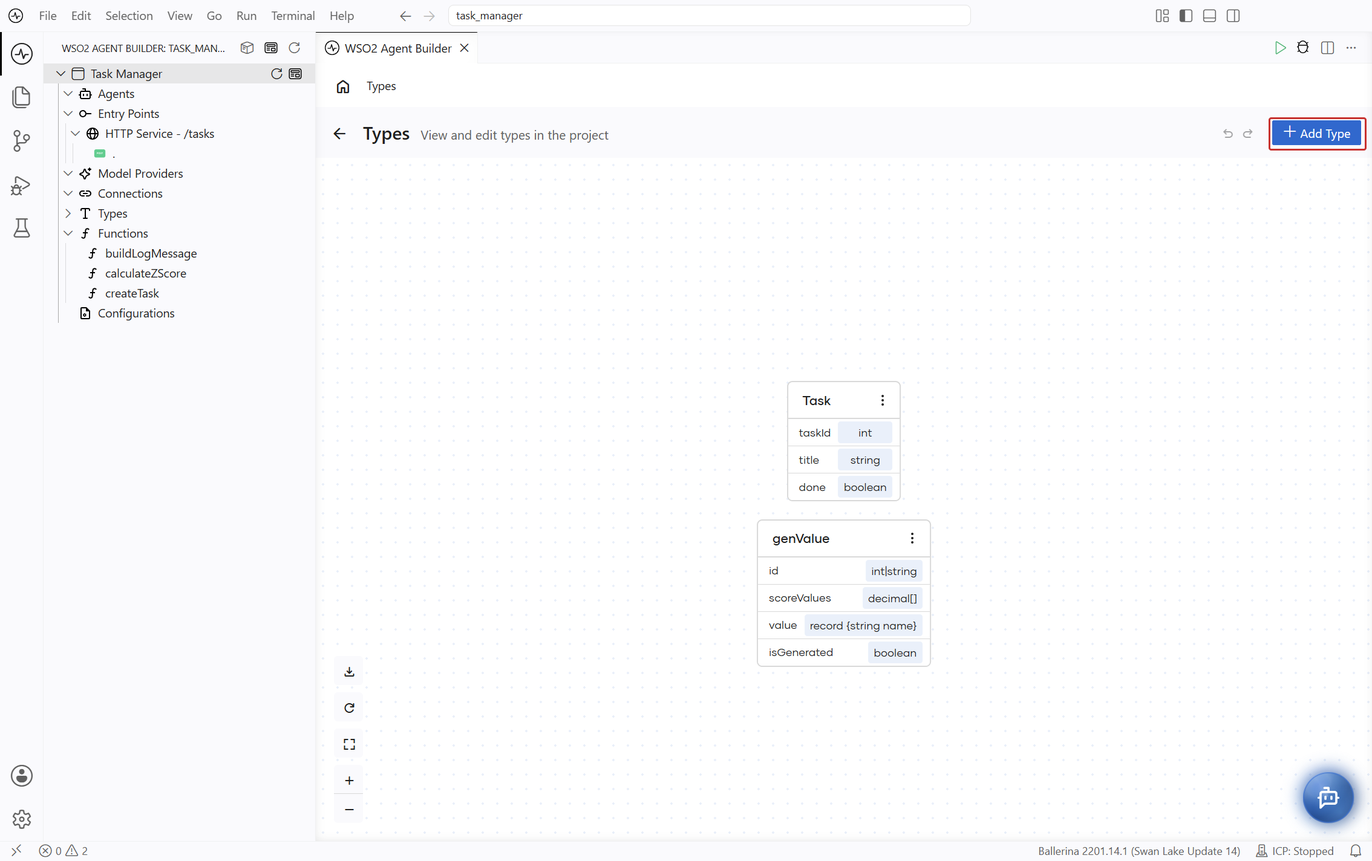
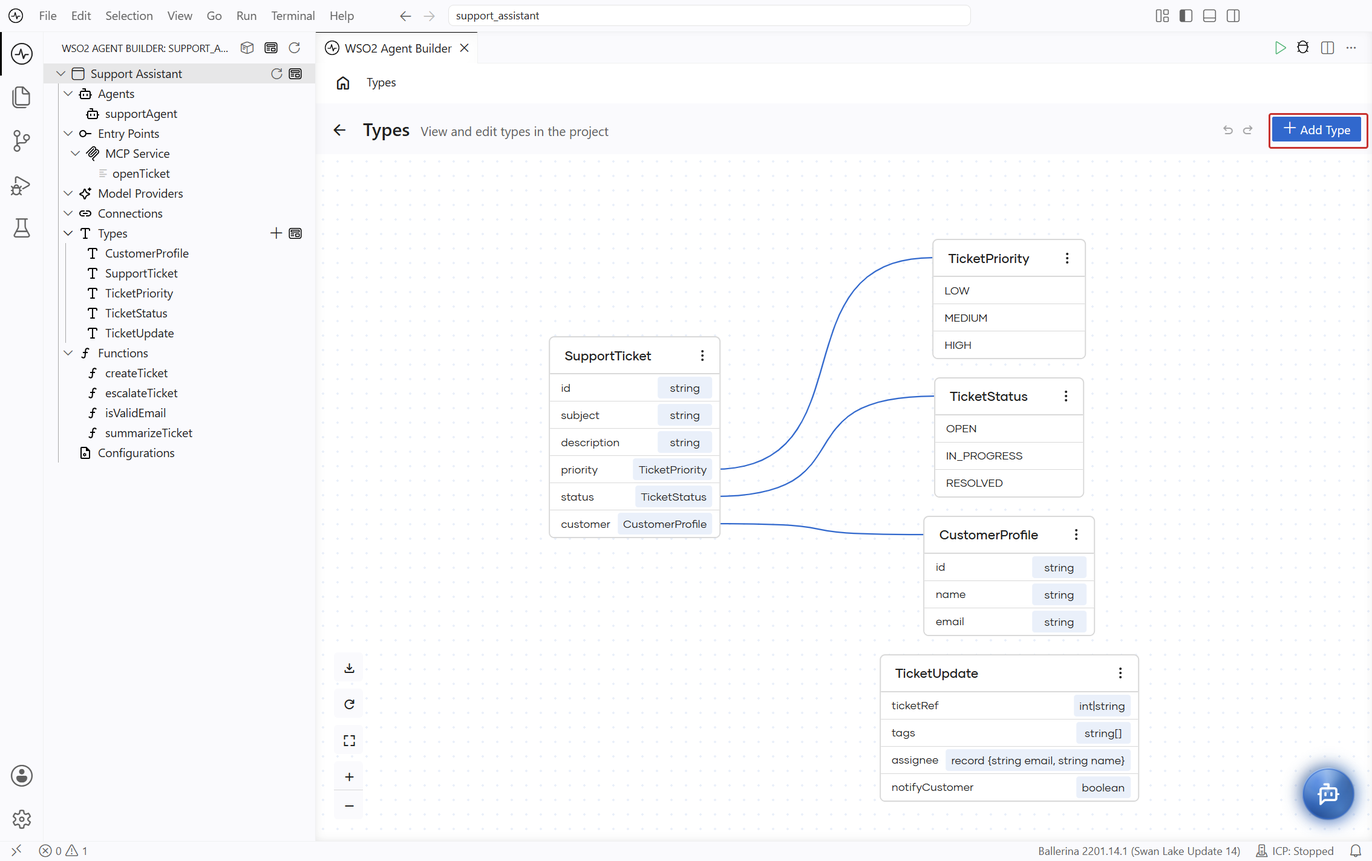
docs(editor): use a customer support example on the panel pages
Show an MCP service on the Configuration Panel page, use ticket types and
tool functions for the Expression Panel and Type Panel examples, and drop
the GraphQL references and GraphQL Canvas links from the Type Panel page.

diff --git a/en/docs/editor/panels/type-panel.md b/en/docs/editor/panels/type-panel.md
@@ -22,7 +22,7 @@ You can open the Type Panel from two places, depending on where you are working.
 - **From the project explorer.** Select **+** next to **Types** to add a new type, or select an existing type name to edit it.
 
     <ThemedImage
-        alt="The project explorer with the Add Type button next to Types outlined and its Add Type tooltip showing."
+        alt="The project explorer with Types expanded to show CustomerProfile, SupportTicket, TicketPriority, TicketStatus, and TicketUpdate, and the Add Type button next to Types outlined with its Add Type tooltip showing."
         sources={{
             light: useBaseUrl('/img/editor/panels/type-panel/01-add-type-project-explorer-v1.0.png'),
             dark: useBaseUrl('/img/editor/panels/type-panel/01-add-type-project-explorer-v1.0.png'),
@@ -32,7 +32,7 @@ You can open the Type Panel from two places, depending on where you are working.
 - **From the Type Canvas.** Select **+ Add Type** in the header to add a new type, or select **Edit** from the three-dot menu on a type card to edit an existing one.
 
     <ThemedImage
-        alt="The Type Canvas showing the Task and genValue type cards, with the Add Type button at the top right outlined."
+        alt="The Type Canvas showing the SupportTicket record linked to the TicketPriority and TicketStatus enums and the CustomerProfile record, and a separate TicketUpdate record, with the Add Type button at the top right outlined."
         sources={{
             light: useBaseUrl('/img/editor/panels/type-panel/02-add-type-diagram-v1.0.png'),
             dark: useBaseUrl('/img/editor/panels/type-panel/02-add-type-diagram-v1.0.png'),
@@ -51,7 +51,7 @@ The Type Panel supports the following kinds of types. Pick the kind from the **K
 | **Enum** | A fixed set of named string members, useful for status codes and choices. |
 | **Union** | A value that can be one of several types, including primitives and other custom types. |
 | **Array** | A list of values of the same type, with an optional fixed size. |
-| **Service Class** | A class that exposes resource methods, used as a return type for GraphQL resolvers and similar service patterns. |
+| **Service Class** | A class that exposes resource methods, for a typed object that carries behavior alongside data. |
 
 Every type form shares the same header fields:
 
@@ -65,7 +65,7 @@ Every type form shares the same header fields:
 A record defines a structured value with named fields. Each field has a name, a type, and an optional flag, and the panel renders one row per field under the **Fields** section.
 
 <ThemedImage
-    alt="The New Type panel on the Create from scratch tab, with Kind set to Record, Name set to Person, a nic field of type int, and Advanced Options expanded to show Allow Additional Fields, Is Readonly Type, and Accessible by Other Integrations."
+    alt="The New Type panel on the Create from scratch tab, with Kind set to Record, Name set to OrderSummary, an orderId field of type string, a total field of type decimal, and Advanced Options expanded to show Allow Additional Fields, Is Readonly Type, and Accessible by Other Integrations."
     sources={{
         light: useBaseUrl('/img/editor/panels/type-panel/03-create-record-v1.0.png'),
         dark: useBaseUrl('/img/editor/panels/type-panel/03-create-record-v1.0.png'),
@@ -75,7 +75,7 @@ A record defines a structured value with named fields. Each field has a name, a 
 Select **+** next to **Fields** to add a new field. Each field row exposes the following options.
 
 <ThemedImage
-    alt="The nic field row of the Person record expanded to show Default Value, Description, and Readonly, with the Create Inline Record, Set as an Optional Field, and Delete Field icons outlined."
+    alt="The total field row of the OrderSummary record expanded to show Default Value, Description, and Readonly, with the Create Inline Record, Set as an Optional Field, and Delete Field icons outlined."
     sources={{
         light: useBaseUrl('/img/editor/panels/type-panel/08-field-options-in-record-v1.0.png'),
         dark: useBaseUrl('/img/editor/panels/type-panel/08-field-options-in-record-v1.0.png'),
@@ -97,21 +97,21 @@ To make a field reference another type in the project, set the field type to the
 An enum defines a fixed set of named members. Use it for closed sets of values such as status codes, channels, or roles.
 
 <ThemedImage
-    alt="The New Type panel with Kind set to Enum, Name set to Status, and the members DRAFT, SUBMITTED, APPROVED, and REJECTED."
+    alt="The New Type panel with Kind set to Enum, Name set to TicketChannel, and the members EMAIL, CHAT, and PHONE."
     sources={{
         light: useBaseUrl('/img/editor/panels/type-panel/04-create-enum-v1.0.png'),
         dark: useBaseUrl('/img/editor/panels/type-panel/04-create-enum-v1.0.png'),
     }}
 />
 
-Select **+** next to **Members** to add a member, and the **delete** icon on a row to remove it. Each member has a single name (for example, `DRAFT`, `SUBMITTED`, `APPROVED`, `REJECTED`).
+Select **+** next to **Members** to add a member, and the **delete** icon on a row to remove it. Each member has a single name (for example, `EMAIL`, `CHAT`, `PHONE`).
 
 ### Union
 
-A union defines a value that can be one of several types. Use it when a field or variable can legitimately hold more than one shape, for example, a response that is either a success record or an error.
+A union defines a value that can be one of several types. Use it when a field or variable can legitimately hold more than one shape, for example, a ticket lookup that returns either the ticket or an error.
 
 <ThemedImage
-    alt="The New Type panel with Kind set to Union, Name set to TaskResult, and the members Task and error."
+    alt="The New Type panel with Kind set to Union, Name set to TicketLookupResult, and the members SupportTicket and error."
     sources={{
         light: useBaseUrl('/img/editor/panels/type-panel/05-create-union-v1.0.png'),
         dark: useBaseUrl('/img/editor/panels/type-panel/05-create-union-v1.0.png'),
@@ -125,7 +125,7 @@ Select **+** next to **Members** to add a member type, and the **delete** icon t
 An array defines a list of values of the same type, with an optional fixed size.
 
 <ThemedImage
-    alt="The New Type panel with Kind set to Array, Name set to TaskList, Type of the Array set to Task, and an empty Size of the Array field."
+    alt="The New Type panel with Kind set to Array, Name set to TicketList, Type of the Array set to SupportTicket, and an empty Size of the Array field."
     sources={{
         light: useBaseUrl('/img/editor/panels/type-panel/06-create-array-v1.0.png'),
         dark: useBaseUrl('/img/editor/panels/type-panel/06-create-array-v1.0.png'),
@@ -139,7 +139,7 @@ An array defines a list of values of the same type, with an optional fixed size.
 
 ### Service class
 
-A service class defines a class with one or more resource methods. Use it as the return type of a GraphQL resolver, or anywhere you need a typed object that exposes behavior alongside data.
+A service class defines a class with one or more resource methods. Use it when you need a typed object that exposes behavior alongside data.
 
 <ThemedImage
     alt="The New Type panel with Kind set to Service Class, Name set to TaskQuery, and a tasks resource method that returns Task[], expanded to show Add Parameter."
@@ -196,27 +196,30 @@ For a JSON sample such as:
 
 ```json
 {
-  "books": [
+  "orderId": "ORD-1001",
+  "customerId": "C-204",
+  "status": "SHIPPED",
+  "items": [
     {
-      "title": "Clean Code",
-      "author": "Robert C. Martin",
-      "year": 2008,
-      "isbn": "9780132350884"
+      "sku": "MS-101",
+      "name": "Wireless Mouse",
+      "quantity": 1,
+      "price": 25
     },
     {
-      "title": "The Pragmatic Programmer",
-      "author": "Andrew Hunt",
-      "year": 1999,
-      "isbn": "9780201616224"
+      "sku": "KB-220",
+      "name": "USB Keyboard",
+      "quantity": 2,
+      "price": 40
     }
   ]
 }
 ```
 
-With **Name** set to `Library`, the panel generates a `Library` record with a `books` field, a `Books` array type for that field, and a `BooksItem` record for each book entry. The `title`, `author`, `year`, and `isbn` fields are typed as `string` or `int` based on the sample values.
+With **Name** set to `Order`, the panel generates an `Order` record with `orderId`, `customerId`, `status`, and `items` fields, an `Items` array type for the `items` field, and an `ItemsItem` record for each item entry. Field types are inferred from the sample values, so `sku` and `name` become `string` fields, and `quantity` and `price` become `int` fields.
 
 <ThemedImage
-    alt="The Import tab of the New Type panel, with Format set to JSON, Name set to Library, and a JSON sample of two books pasted in."
+    alt="The Import tab of the New Type panel, with Format set to JSON, Name set to Order, and a JSON sample of an order with two items pasted in."
     sources={{
         light: useBaseUrl('/img/editor/panels/type-panel/10-import-json-v1.0.png'),
         dark: useBaseUrl('/img/editor/panels/type-panel/10-import-json-v1.0.png'),
@@ -228,36 +231,34 @@ With **Name** set to `Library`, the panel generates a `Library` record with a `b
 For an XML sample such as:
 
 ```xml
-<library>
-  <book>
-    <title>Clean Code</title>
-    <author>Robert C. Martin</author>
-    <year>2008</year>
-    <isbn>9780132350884</isbn>
-  </book>
-  <book>
-    <title>The Pragmatic Programmer</title>
-    <author>Andrew Hunt</author>
-    <year>1999</year>
-    <isbn>9780201616224</isbn>
-  </book>
-</library>
+<order>
+  <orderId>ORD-1001</orderId>
+  <status>SHIPPED</status>
+  <item>
+    <sku>MS-101</sku>
+    <name>Wireless Mouse</name>
+    <quantity>1</quantity>
+  </item>
+  <item>
+    <sku>KB-220</sku>
+    <name>USB Keyboard</name>
+    <quantity>2</quantity>
+  </item>
+</order>
 ```
 
-The panel generates a root record for the `<library>` element with a `book` field of type `Book[]`, and a `Book` record with one field per child element. Field types are inferred from the sample values, so `year` and `isbn` become `int` fields.
+The panel generates a root record for the `<order>` element with `orderId`, `status`, and `item` fields, where `item` is of type `Item[]`, and an `Item` record with one field per child element. Field types are inferred from the sample values, so `quantity` becomes an `int` field. If the project already has a type with the same name, the panel adds a suffix such as `_01` to the new type.
 
 The new types are added to the project and become available everywhere a custom type can be used.
 
 :::tip Common next steps after import
 - Use the generated record as a request or response payload in the [Service Designer](../designers/service-designer.md).
 - Map fields from the imported record onto another type in the [Data Mapper](../designers/data-mapper.md).
-- Expose the record from a GraphQL resolver in the [GraphQL Canvas](../canvases/graphql-canvas.md).
 :::
 
 ## What's next
 
 - [Type Canvas](../canvases/type-canvas.md): visualize every type in the project and the relationships between them.
 - [Service Designer](../designers/service-designer.md): use the types you defined as request and response payloads for a service.
-- [GraphQL Canvas](../canvases/graphql-canvas.md): expose service classes and records as GraphQL types.
 - [Data Mapper](../designers/data-mapper.md): map fields between the types you defined here.
 - [Flow Canvas](../canvases/flow-canvas/flow-canvas.md): use the types as variables and parameters in a flow.

diff --git a/en/docs/editor/panels/expression-panel.md b/en/docs/editor/panels/expression-panel.md
@@ -25,7 +25,7 @@ The Expression Panel appears in every side panel and form that takes a value, in
 - Any field marked with the `fx` icon.
 
 <ThemedImage
-    alt="The Declare Variable panel for the newTask variable, with the Expression field outlined. The field holds the record value, with currentId and title shown as chips."
+    alt="The Declare Variable panel for the ticket variable of type SupportTicket, with the Expression field outlined. The field holds the record value, with ticketId, subject, description, MEDIUM, OPEN, and customer shown as chips."
     sources={{
         light: useBaseUrl('/img/editor/panels/expression-panel/declare-variable-panel-v1.0.png'),
         dark: useBaseUrl('/img/editor/panels/expression-panel/declare-variable-panel-v1.0.png'),
@@ -37,7 +37,7 @@ The Expression Panel appears in every side panel and form that takes a value, in
 The helper pane is a side menu that lists everything you can drop into the current expression. It opens automatically when you start typing in the Expression Panel, and you can also open or close it manually using the helper pane toggle next to the field. The pane groups available items into four categories: **Inputs**, **Variables**, **Configurables**, and **Functions**. This grouping helps you locate the right reference without leaving the panel.
 
 <ThemedImage
-    alt="The cleared Label field of the buildLogMessage node, with the helper pane open below it listing Inputs, Variables, Configurables, and Functions."
+    alt="The cleared Ticket field of the summarizeTicket node, with the helper pane open below it listing Inputs, Variables, Configurables, and Functions."
     sources={{
         light: useBaseUrl('/img/editor/panels/expression-panel/helper-pane-v1.0.png'),
         dark: useBaseUrl('/img/editor/panels/expression-panel/helper-pane-v1.0.png'),
@@ -67,7 +67,7 @@ Lists standard library functions and user-defined functions available for the cu
 The Expression Panel offers context-aware suggestions as you type. Typing `.` after a variable opens a list of the methods, fields, and remote functions available on that variable's type. Selecting one inserts the call at the cursor. Suggestions are filtered by the expected type at the cursor, so only compatible options appear first.
 
 <ThemedImage
-    alt="The Score field of the calculateZScore node after typing title., with a list of string functions such as padStart, length, includes, and toUpperAscii."
+    alt="The Email field of the isValidEmail node after typing customer., with a list that starts with the id, name, and email fields of the CustomerProfile record, followed by functions such as reduce and hasKey."
     sources={{
         light: useBaseUrl('/img/editor/panels/expression-panel/suggestions-v1.0.png'),
         dark: useBaseUrl('/img/editor/panels/expression-panel/suggestions-v1.0.png'),
@@ -79,7 +79,7 @@ The Expression Panel offers context-aware suggestions as you type. Typing `.` af
 Variables render as compact chips inside the expression, whether they are variables you declared, service inputs, configurables, or function parameters. Chips keep long expressions readable and let you click a reference to inspect or replace it without editing the surrounding text.
 
 <ThemedImage
-    alt="The calculateZScore node panel, where the Score field shows the currentId variable as a chip."
+    alt="The summarizeTicket node panel, where the outlined Ticket field shows the ticket variable as a chip."
     sources={{
         light: useBaseUrl('/img/editor/panels/expression-panel/chips-v1.0.png'),
         dark: useBaseUrl('/img/editor/panels/expression-panel/chips-v1.0.png'),
@@ -88,10 +88,10 @@ Variables render as compact chips inside the expression, whether they are variab
 
 ### Function parameter type suggestions
 
-While you fill in the arguments of a function call, the panel suggests values that match the type of the parameter you're filling. For example, inside a call to a function that takes a `string`, the suggestions include the `string` variables in scope, each shown with its type.
+While you fill in the arguments of a function call, the panel suggests values that match the type of the parameter you're filling. For example, inside a call to `summarizeTicket`, which takes a `SupportTicket`, the `ticket` variable of type `SupportTicket` is the first suggestion. Each suggestion shows its type.
 
 <ThemedImage
-    alt="The Label field showing buildLogMessage(l), with a suggestion that offers the string variable logPrefix."
+    alt="The Msg field of the log:printInfo node showing summarizeTicket(t), with suggestions for the ticket variable of type SupportTicket and the ticketId variable of type string."
     sources={{
         light: useBaseUrl('/img/editor/panels/expression-panel/function-parameter-type-suggestions-v1.0.png'),
         dark: useBaseUrl('/img/editor/panels/expression-panel/function-parameter-type-suggestions-v1.0.png'),
@@ -103,7 +103,7 @@ While you fill in the arguments of a function call, the panel suggests values th
 The panel validates the expression as you type and reports problems inline beneath the field. Diagnostics cover issues such as missing required arguments, incompatible types, undefined references, and syntax errors, so you can correct the value before saving the form.
 
 <ThemedImage
-    alt="The Label field showing buildLogMessage(), with inline errors for the missing label and message parameters."
+    alt="The Msg field showing summarizeTicket(), with an inline error for the missing ticket parameter."
     sources={{
         light: useBaseUrl('/img/editor/panels/expression-panel/diagnostics-v1.0.png'),
         dark: useBaseUrl('/img/editor/panels/expression-panel/diagnostics-v1.0.png'),
@@ -135,7 +135,7 @@ If you change the field's type after the expression has already been filled, the
 Most fields support more than one variation. The current variation is shown by the toggle at the top right of the field (for example, **Record / Expression** for a record-typed field, or **Text / Expression** for a `string`-typed field). Select the toggle to switch between the form-style variation and free-form expression entry. For instance, a record field can be filled through the Record Configuration form, or, after switching to **Expression**, written directly as a record literal.
 
 <ThemedImage
-    alt="The Number and Expression toggle at the top right of the Score field, outlined."
+    alt="The Record and Expression toggle at the top right of the Expression field of the ticket variable, outlined."
     sources={{
         light: useBaseUrl('/img/editor/panels/expression-panel/variation-toggle-v1.0.png'),
         dark: useBaseUrl('/img/editor/panels/expression-panel/variation-toggle-v1.0.png'),
@@ -165,23 +165,23 @@ Appears when the expected type is a record. Select the field to open the **Recor
 For example, the following record type:
 
 ```ballerina
-type genValue record {
-    int|string id;
-    decimal[] scoreValues;
-    record {| string name; |} value;
-    boolean isGenerated;
-};
+type TicketUpdate record {|
+    int|string ticketRef;
+    string[] tags;
+    record {| string name; string email; |} assignee;
+    boolean notifyCustomer;
+|};
 ```
 
 Renders in the Record Configuration editor as:
 
-- `id` is a **union** of `int` and `string`. The panel shows a dropdown so you can pick which member type to supply, then accepts a value using that member's variation.
-- `scoreValues` is a `decimal[]` **array**. The panel shows an inline list with an **Add decimal** action so you can add elements one at a time, each using the Number variation.
-- `value` is a **nested record**. The panel expands the inner record's fields directly inside the parent form, so the `name` field of the inner record appears as a `string` input under `value`.
-- `isGenerated` is a **boolean**. Its value, `true` in this example, appears in the expression on the right.
+- `ticketRef` is a **union** of `int` and `string`. The panel shows a dropdown so you can pick which member type to supply, then accepts a value using that member's variation.
+- `tags` is a `string[]` **array**. The panel shows an inline list with an **Add string** action so you can add elements one at a time, each using the Text variation.
+- `assignee` is a **nested record**. The panel expands the inner record's fields directly inside the parent form, so the `name` and `email` fields of the inner record appear as `string` inputs under `assignee`.
+- `notifyCustomer` is a **boolean**. Its value, `true` in this example, appears in the expression on the right.
 
 <ThemedImage
-    alt="The Record Configuration editor for genValue, with the id, scoreValues, value, and isGenerated fields on the left and the resulting record expression on the right."
+    alt="The Record Configuration editor for TicketUpdate, with the ticketRef, tags, assignee, and notifyCustomer fields on the left and the resulting record expression on the right."
     sources={{
         light: useBaseUrl('/img/editor/panels/expression-panel/record-config-editor-v1.0.png'),
         dark: useBaseUrl('/img/editor/panels/expression-panel/record-config-editor-v1.0.png'),
@@ -206,10 +206,10 @@ Appears when you author SQL queries, for example in database connector parameter
 
 ### Prompt
 
-Appears for fields that take a natural-language prompt, such as an agent's **Role** and **Instructions**. These fields show a **Prompt / Expression** toggle and support inserting variables as chips so prompt templates remain readable. For longer prompts, select **Open in Prompt Editor** below the field. The prompt editor accepts Markdown formatting (headings, bold, italics, lists, links, tables, and quotes) through a built-in toolbar, and you can switch between the rendered **Preview** and the raw **Source** view from the same toolbar.
+Appears for fields that take a natural-language prompt, such as an agent's **Role** and **Instructions**. These fields show a **Prompt / Expression** toggle and support inserting variables as chips so prompt templates remain readable. For longer prompts, select **Open in Prompt Editor** below the field. The prompt editor accepts Markdown formatting (headings, bold, italics, lists, links, tables, and quotes) through a built-in toolbar, and you can switch between the rendered **Preview** and the raw **Source** view from the same toolbar. The toolbar also has an **Enhance Prompt with AI** action.
 
 <ThemedImage
-    alt="The Instructions prompt editor, with a Markdown toolbar (Insert, bold, italic, link, heading, quote, lists, and table) and Preview and Source tabs, showing a prompt where task assistant is in bold."
+    alt="The Instructions prompt editor, with a toolbar (Insert, undo, redo, bold, italic, link, heading, quote, lists, table, and Enhance Prompt with AI) and Preview and Source tabs, showing a prompt where customer support assistant is in bold."
     sources={{
         light: useBaseUrl('/img/editor/panels/expression-panel/prompt-v1.0.png'),
         dark: useBaseUrl('/img/editor/panels/expression-panel/prompt-v1.0.png'),

diff --git a/en/docs/editor/panels/configuration-panel.md b/en/docs/editor/panels/configuration-panel.md
@@ -13,7 +13,7 @@ import useBaseUrl from '@docusaurus/useBaseUrl';
 The Configuration Panel is the view that opens whenever you select **Configure** in the editor. It groups the settings that apply to the project, service, or function you're working on into a single form, so you can review and update them without editing source code. The panel adapts its content to the level you opened it from.
 
 <ThemedImage
-    alt="The HTTP Service Configuration view for the /tasks service, with HTTP Service and the taskListener listener under Attached Listeners on the left, and the Base Path and Service Configuration fields followed by the Configuration for taskListener section (Name, Port, and Host) on the right. Save Changes is at the top right."
+    alt="The MCP Service Configuration view for the /mcp service, with MCP Service and the mcpListener listener under Attached Listeners on the left, and the Streamable HTTP Service, Base Path, and StreamableHttpServiceConfig fields followed by the Configuration for mcpListener section (Name and Listen To) on the right. Save Changes is at the top right."
     sources={{
         light: useBaseUrl('/img/editor/panels/configuration-panel/service-configuration-v1.0.png'),
         dark: useBaseUrl('/img/editor/panels/configuration-panel/service-configuration-v1.0.png'),
@@ -25,7 +25,7 @@ The Configuration Panel is the view that opens whenever you select **Configure**
 The level you open the Configuration Panel from determines which configuration it loads:
 
 - **Project level**: select **Configure** at the top of the project home page, or hover over **Configurations** in the project explorer and select **View Configuration**.
-- **Service level**: select **Configure** in the [Service Designer](../designers/service-designer.md) header.
+- **Service level**: select **Configure** in the header of a service, such as an MCP service, in the [Service Designer](../designers/service-designer.md).
 - **Function level**: select **Configure** at the top of a function's flow.
 
 ## Configuration levels
@@ -38,11 +38,13 @@ Apply to the entire project. The **Configurable Variables** view lists the confi
 
 ### Service-level configurations
 
-Apply only to the selected service. The form is split into the service's own settings and the configuration of every listener attached to it. For an HTTP service, this includes:
+Apply only to the selected service. The form is split into the service's own settings and the configuration of every listener attached to it. For an MCP service, this includes:
 
-- **Base Path**: the path the service is exposed on.
-- **Service Configuration**: advanced service-level options such as service-level security.
-- **Configuration for `<listener>`**: the listener's own settings (for example, **Name**, **Port**, **Host**, **HTTP1 Settings**, **Secure Socket**, and **HTTP Version** for an HTTP listener), one block per attached listener.
+- **Base Path**: the path the service is exposed on, for example `/mcp`.
+- **StreamableHttpServiceConfig**: the server information sent to MCP clients, such as the server name and version, along with options such as the session mode and HTTP settings.
+- **Configuration for `<listener>`**: the listener's own settings (for example, **Name**, **Listen To**, **Host**, **HTTP1 Settings**, **Secure Socket**, and **HTTP Version** for an MCP listener), one block per attached listener.
+
+For what each MCP setting does, see [Service configuration](../../develop-and-test/integration-artifacts/ai-integrations/mcp/exposing-as-mcp.md#service-configuration) and [Listener configuration](../../develop-and-test/integration-artifacts/ai-integrations/mcp/exposing-as-mcp.md#listener-configuration).
 
 The left pane lists the service and its **Attached Listeners** so you can jump straight to the block you want to edit.
 
@@ -63,4 +65,5 @@ On the project and service levels, the panel stages your edits until you select 
 ## What's next
 
 - [Service Designer](../designers/service-designer.md): return to the service designer to manage resources and handlers.
+- [Exposing a Service as MCP](../../develop-and-test/integration-artifacts/ai-integrations/mcp/exposing-as-mcp.md): create an MCP service and configure its tools.
 - [Expression Panel](expression-panel.md): use configurable variables in expressions.
